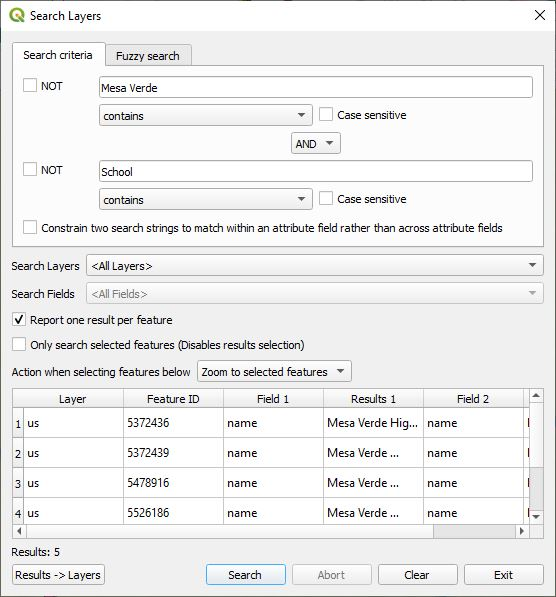
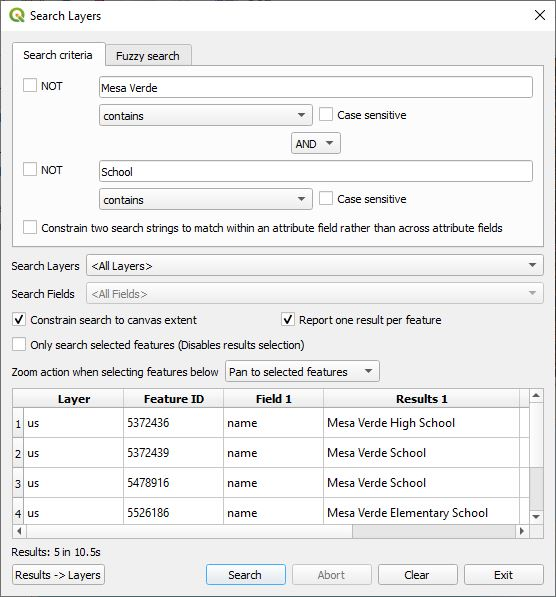
Update documentation

diff --git a/index.html b/index.html
@@ -37,10 +37,11 @@ code {
 </head>
 <body>
 <h1>Search Layers Plugin</h1>
-<p>The Search Layers plugin features enhanced textual vector layer searching in QGIS. It provides the ability to search across all layers and all fields. It also features a new Fuzzy Search algorithm.</p>
+<p>The Search Layers plugin features enhanced textual vector layer searching in QGIS. It provides the ability to search across all layers and all fields. It also features a Fuzzy Search algorithm.</p>
 <p>Search Layers is located in the QGIS Plugins menu under <em>"Plugins-&gt;Search Layers-&gt;Search Layers"</em> or by selecting the tool bar icon. <img alt="Toolbar Icon" src="icon.png" /></p>
 <p>The following dialog box is displayed when "Search Layers" is first launched.</p>
 <p><img alt="Search Layers Dialog" src="doc/layersearch.jpg" /></p>
+<h2>Search criteria options</h2>
 <p>Under <strong>Search criteria</strong>, you can enter up to two search strings. The <strong>NOT</strong> check box will negate the search results for the applicable string.</p>
 <p>Under each search string text box a drop down menu specifies how the search string is to match the contents in the attribute table. The options are: </p>
 <ul>
@@ -49,21 +50,30 @@ code {
 <li><strong>begins with</strong> - This search finds any field that begins with the search string.</li>
 <li><strong>ends with</strong> - This search finds any field that ends with the search string.</li>
 </ul>
-<p>By default the search is case independent, but by checking the <strong>Case sensitive</strong> check box the search string must match the case of the text.</p>
-<p><strong>Search Layers</strong> specifies whether the search will be on <em>&lt;All Layers&gt;</em>, <em>&lt;Selected layers&gt;</em>, or on any of the vector layers in the QGIS project. If a specific layer is selected then <strong>Search Fields</strong> will be enabled and by default <em>&lt;All Fields&gt;</em> will be selected, but any field can be selected from the layer and the search will only search on that layer and field.</p>
-<p>It is possible that a search string could match the contents in one or more attribute fields. By checking <strong>Report one result per feature</strong>, only the first match per feature will be reported.</p>
-<p>When two search strings are used checking <strong>Constrain two search strings to match within an attribute field rather than across attribute fields</strong> will constrain the search criteria to match within an attribute field; otherwise, one string may match one attribute field and the other string may match another attribute field. The results are either <strong>AND</strong>ed or <strong>OR</strong>ed together. Here is an axample of a two string search.</p>
-<p>If <strong>Only search selected features</strong> is checked, the features that are selected in QGIS will be the only ones searched. This is one way to limit a search to a particular area. Note that with this checked, the normal interaction of clicking on a found feature in the list will not select the feature for obvious reasons; however, the zoom or pan to actions will still apply.</p>
-<p>If search results are found, then the <strong>"Results -&gt; Layers"</strong> button will be enabled. Clicking on this button will export all the found results into new virtual layers. It is advised to install the <strong><em>Memory Saver Plugin</em></strong> to prevent these layers from disappearing after closing the project.</p>
+<p><strong>Case sensitive</strong> - When checked the search string must match that of the attribute text case. by default it is unchecked and does a case independent search.</p>
+<p><strong>Constrain two search strings to match within an attribute field rather than across attribute fields</strong> - This will constrain the search criteria when two search strings are used to match within an attribute field; otherwise, one string may match one attribute field and the other string may match another attribute field. The results are either <strong>AND</strong>ed or <strong>OR</strong>ed together. Here is an example of a two string search.</p>
 <p><img alt="Search Layers Dialog" src="doc/layersearch2.jpg" /></p>
-<p>Click  the <strong>Search</strong> button to begin the search. In the case of a large data set, clicking on <strong>Abort</strong> will halt the process. Note that the plugin stops after finding 1500 matches.</p>
-<p>When matches are found and clicked on the feature(s) will be highlighted. You can you Shift-&gt;Click to highlight a range of features, Ctrl-&gt;Click to toggle whether a feature is highlighted or not. The drop down menu <strong>Action when selecting features below</strong> controls one of the following motion actions. </p>
+<h2>Additional options</h2>
+<p><strong>Search Layers</strong> specifies what layers will be in the search.</p>
+<ul>
+<li><em>&lt;All Layers&gt;</em> - All vector layers will be searched whether they are visible or not.</li>
+<li><em>&lt;Selected layers&gt;</em> - All the selected layers in the Layers panel will be searched wither they are visible or not.</li>
+<li><em>&lt;Visible layers&gt;</em> - All visible layers will be searched.</li>
+<li><em>A specific layer</em> - Any of the vector layers in the QGIS project can be selected. When one is selected, then <strong>Search Fields</strong> will be enabled and by default <em>&lt;All Fields&gt;</em> will be displayed, but any field can be chosen from the layer and the search will only search on that layer and field.</li>
+</ul>
+<p><strong>Constrain search to canvas extent</strong> - Checking this box will constrain the search to look for features that are within the current canvas window view. If you are only interested in the features in the canvas view, this will greatly speed up the search.</p>
+<p><strong>Report one result per feature</strong> - It is possible that a search string could match the contents in one or more attribute fields. By checking this, only the first match per feature will be reported.</p>
+<p><strong>Only search selected features</strong> - When checked, the features that are selected in QGIS will be the only ones searched. This is one way to limit a search to a particular area. Note that with this checked, the normal interaction of clicking on a found feature in the list will not select the feature for obvious reasons; however, the zoom or pan to actions will still apply.</p>
+<p><strong>Zoom action when selecting features below</strong> - When matches are found and are clicked on this affects that action that takes place.</p>
 <ul>
 <li><strong>Do nothing</strong> - No action takes place.</li>
 <li><strong>Zoom to selected features</strong> - QGIS will zoom in on the selected features.</li>
 <li><strong>Pan to selected features</strong> - QGIS will pan to the selected features.</li>
 </ul>
-<p>Note that the search is very quick when selecting a single vector layer under <strong>Search Layers</strong> and a single field under <strong>Search Fields</strong>. If this is not the case regular expression searches are used and are very slow. In the future this may change.</p>
-<h2>Fuzzy Search</h2>
+<p>The selected feature(s) will be highlighted unless <strong>Only search selected features</strong> has been checked. Shift-&gt;Click will highlight a range of features. Use Ctrl-&gt;Click to toggle whether a feature is selected or not. </p>
+<p><strong>Results -&gt; Layers</strong> - Clicking on this button will export all the found results into new virtual layer. It is advised to install the <strong><em>Memory Saver Plugin</em></strong> to prevent these layers from disappearing after closing the project.</p>
+<p><strong>Search</strong> - Clicking on this button will begin the search. In the case of a large data set, clicking on <strong>Abort</strong> will halt the process. The search will stop after finding 2000 matches.</p>
+<p>Note that the search is very quick when selecting a single vector layer under <strong>Search Layers</strong> and a single field under <strong>Search Fields</strong>. If this is not the case, regular expression searches are used and are slow. In the future this may change.</p>
+<h2>Fuzzy search</h2>
 <p>This QGIS plugin makes use of two fuzzy search algorithms. One is based off of the <strong><em>Levenshtein</em></strong> algorithm and the other is a <strong><em>Soundex</em></strong> algorithm. The soundex is really only useful for matching single words that sound the same. This is a screen shot.</p>
 <p><img alt="Search Layers Dialog" src="doc/layersearch3.jpg" /></p></body>

diff --git a/readme.md b/readme.md
@@ -1,6 +1,6 @@
 # Search Layers Plugin
 
-The Search Layers plugin features enhanced textual vector layer searching in QGIS. It provides the ability to search across all layers and all fields. It also features a new Fuzzy Search algorithm.
+The Search Layers plugin features enhanced textual vector layer searching in QGIS. It provides the ability to search across all layers and all fields. It also features a Fuzzy Search algorithm.
 
 Search Layers is located in the QGIS Plugins menu under *"Plugins->Search Layers->Search Layers"* or by selecting the tool bar icon. ![Toolbar Icon](icon.png)
 
@@ -8,6 +8,7 @@ The following dialog box is displayed when "Search Layers" is first launched.
 
 ![Search Layers Dialog](doc/layersearch.jpg)
 
+## Search criteria options
 Under **Search criteria**, you can enter up to two search strings. The **NOT** check box will negate the search results for the applicable string.
 
 Under each search string text box a drop down menu specifies how the search string is to match the contents in the attribute table. The options are: 
@@ -17,31 +18,42 @@ Under each search string text box a drop down menu specifies how the search stri
 * **begins with** - This search finds any field that begins with the search string.
 * **ends with** - This search finds any field that ends with the search string.
 
-By default the search is case independent, but by checking the **Case sensitive** check box the search string must match the case of the text.
+**Case sensitive** - When checked the search string must match that of the attribute text case. by default it is unchecked and does a case independent search.
 
-**Search Layers** specifies whether the search will be on *&lt;All Layers&gt;*, *&lt;Selected layers&gt;*, or on any of the vector layers in the QGIS project. If a specific layer is selected then **Search Fields** will be enabled and by default *&lt;All Fields&gt;* will be selected, but any field can be selected from the layer and the search will only search on that layer and field.
-
-It is possible that a search string could match the contents in one or more attribute fields. By checking **Report one result per feature**, only the first match per feature will be reported.
-
-When two search strings are used checking **Constrain two search strings to match within an attribute field rather than across attribute fields** will constrain the search criteria to match within an attribute field; otherwise, one string may match one attribute field and the other string may match another attribute field. The results are either **AND**ed or **OR**ed together. Here is an axample of a two string search.
-
-If **Only search selected features** is checked, the features that are selected in QGIS will be the only ones searched. This is one way to limit a search to a particular area. Note that with this checked, the normal interaction of clicking on a found feature in the list will not select the feature for obvious reasons; however, the zoom or pan to actions will still apply.
-
-If search results are found, then the **"Results -> Layers"** button will be enabled. Clicking on this button will export all the found results into new virtual layers. It is advised to install the ***Memory Saver Plugin*** to prevent these layers from disappearing after closing the project.
+**Constrain two search strings to match within an attribute field rather than across attribute fields** - This will constrain the search criteria when two search strings are used to match within an attribute field; otherwise, one string may match one attribute field and the other string may match another attribute field. The results are either **AND**ed or **OR**ed together. Here is an example of a two string search.
 
 ![Search Layers Dialog](doc/layersearch2.jpg)
 
-Click  the **Search** button to begin the search. In the case of a large data set, clicking on **Abort** will halt the process. Note that the plugin stops after finding 1500 matches.
+## Additional options
 
-When matches are found and clicked on the feature(s) will be highlighted. You can you Shift->Click to highlight a range of features, Ctrl->Click to toggle whether a feature is highlighted or not. The drop down menu **Action when selecting features below** controls one of the following motion actions. 
+**Search Layers** specifies what layers will be in the search.
+
+* *&lt;All Layers&gt;* - All vector layers will be searched whether they are visible or not.
+* *&lt;Selected layers&gt;* - All the selected layers in the Layers panel will be searched wither they are visible or not.
+* *&lt;Visible layers&gt;* - All visible layers will be searched.
+* *A specific layer* - Any of the vector layers in the QGIS project can be selected. When one is selected, then **Search Fields** will be enabled and by default *&lt;All Fields&gt;* will be displayed, but any field can be chosen from the layer and the search will only search on that layer and field.
+
+**Constrain search to canvas extent** - Checking this box will constrain the search to look for features that are within the current canvas window view. If you are only interested in the features in the canvas view, this will greatly speed up the search.
+
+**Report one result per feature** - It is possible that a search string could match the contents in one or more attribute fields. By checking this, only the first match per feature will be reported.
+
+**Only search selected features** - When checked, the features that are selected in QGIS will be the only ones searched. This is one way to limit a search to a particular area. Note that with this checked, the normal interaction of clicking on a found feature in the list will not select the feature for obvious reasons; however, the zoom or pan to actions will still apply.
+
+**Zoom action when selecting features below** - When matches are found and are clicked on this affects that action that takes place.
 
 * **Do nothing** - No action takes place.
 * **Zoom to selected features** - QGIS will zoom in on the selected features.
 * **Pan to selected features** - QGIS will pan to the selected features.
 
-Note that the search is very quick when selecting a single vector layer under **Search Layers** and a single field under **Search Fields**. If this is not the case regular expression searches are used and are very slow. In the future this may change.
+The selected feature(s) will be highlighted unless **Only search selected features** has been checked. Shift->Click will highlight a range of features. Use Ctrl->Click to toggle whether a feature is selected or not. 
 
-## Fuzzy Search
+**Results -> Layers** - Clicking on this button will export all the found results into new virtual layer. It is advised to install the ***Memory Saver Plugin*** to prevent these layers from disappearing after closing the project.
+
+**Search** - Clicking on this button will begin the search. In the case of a large data set, clicking on **Abort** will halt the process. The search will stop after finding 2000 matches.
+
+Note that the search is very quick when selecting a single vector layer under **Search Layers** and a single field under **Search Fields**. If this is not the case, regular expression searches are used and are slow. In the future this may change.
+
+## Fuzzy search
 
 This QGIS plugin makes use of two fuzzy search algorithms. One is based off of the ***Levenshtein*** algorithm and the other is a ***Soundex*** algorithm. The soundex is really only useful for matching single words that sound the same. This is a screen shot.
 
